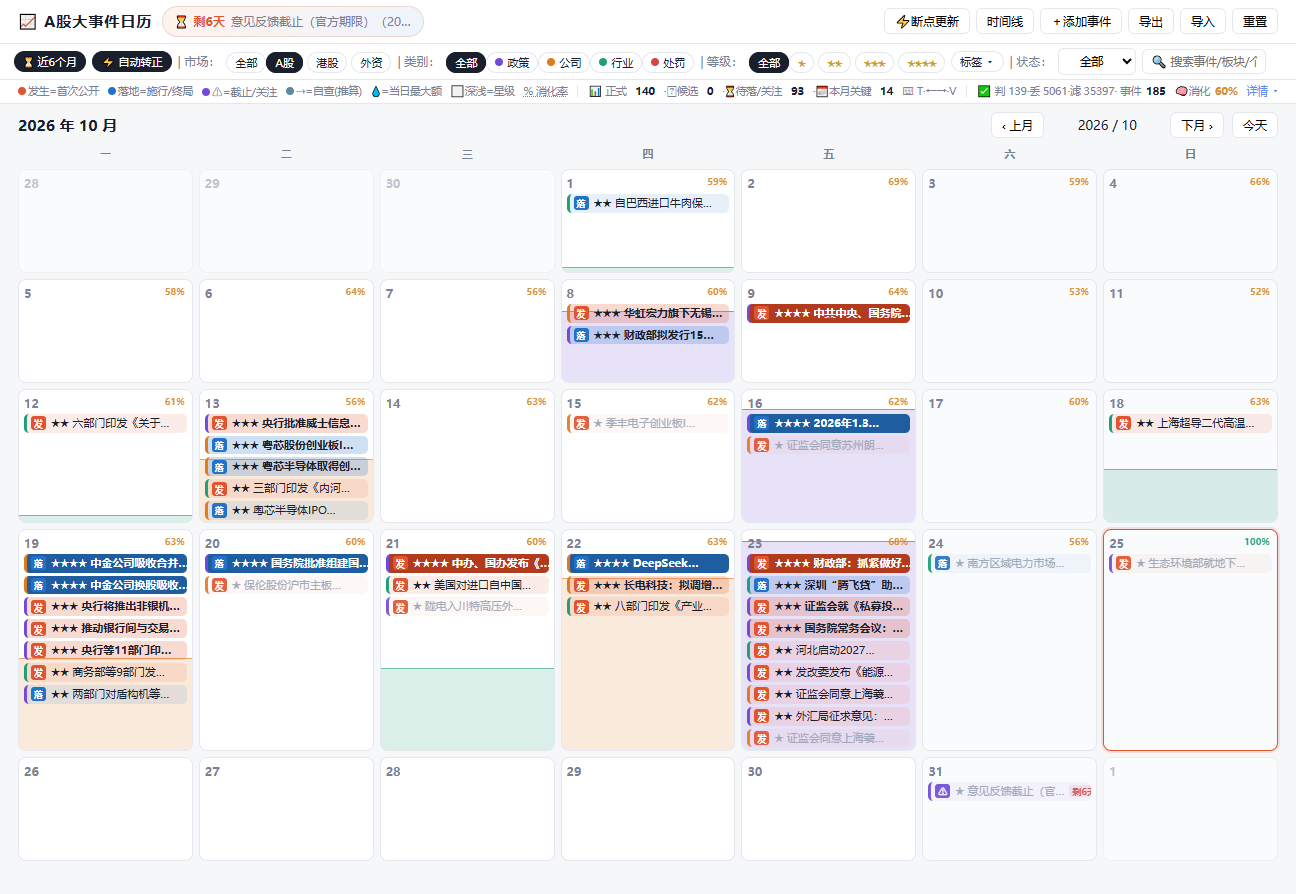
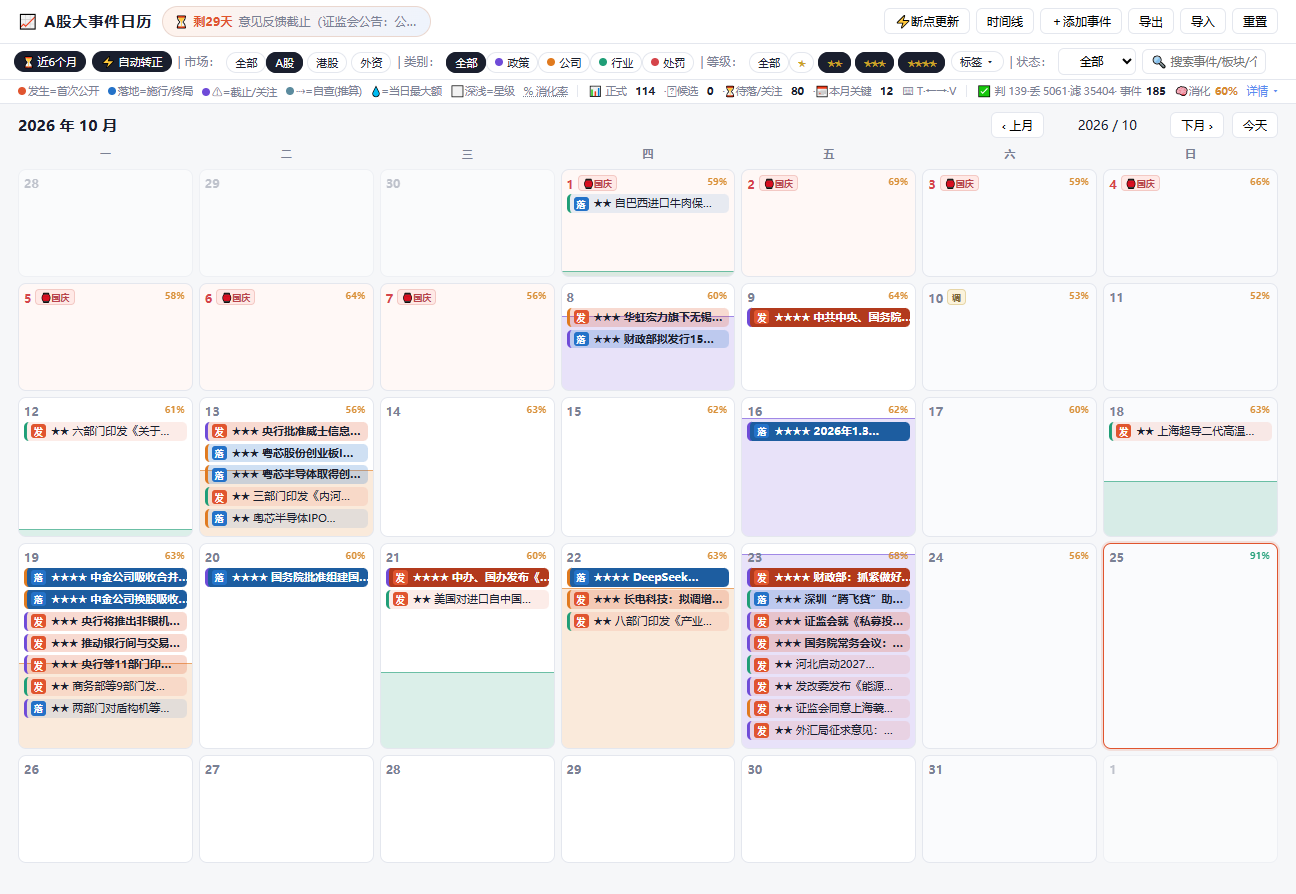
docs: 主图换带假日层十月视图 + 软文补节假日钩子 + 第十九章记录

diff --git a/大事件日历-优化计划.md b/大事件日历-优化计划.md
@@ -298,3 +298,12 @@ fitRows 底部留白常数 14px→34px（实测差 22px 导致残余滚动），
 - 修复：global+local user.name 改"徐金杰"→ filter-branch 重写历史（仅改 author/committer 名，邮箱不变）→ GitHub force push → Gitee 强制同步（覆盖，8b13686 起全绿）
 - 双平台终验：仓库页 html 检索 pc-l.cn = 0 命中 ✓；本地 refs/original 已清
 - jsDelivr@master/Pages 不受影响（文件内容 hash 未变）
+
+## 十九、法定假日/休市层 + 搜索词扩容（2026-10-25）
+- 起因：用户提议"日历里加放假安排"——正好是 Roadmap 固定日程层的第一块砖，且"放假安排/股市休市"是周期性高流量搜索词（节前必有一波）
+- 数据源（逐字官方，宁缺毋滥）：国办《关于2026年部分节假日安排的通知》（国办发明电〔2025〕7号，gov.cn）+ 上交所 2026 年度休市安排（上证公告〔2025〕45号）+ 深交所（深证会〔2025〕481号）；休市日 = 放假日完全一致，调休上班的周六日为"周末休市"（A股不交易）
+- 实现（6b41dcc）：大事件日历.html 新增 HOLIDAYS 常量（2026 全量 7 节）+ HOLMAP 预计算；格渲染挂载 🏮节名胶囊（放假日，暖红底）/"调"胶囊（调休上班日，黄底）+ hover 提示完整区间与来源文号；启用早年预留的 `.cell.festival` 钩子
+- 验证：十月视图 7×🏮国庆+调 ✓、春节 9 天连续胶囊 ✓、劳动节 ✓，三个月份 grid 溢出均 0px，fitRows 稳定
+- 搜索扩容联动：GitHub Description 追加"含2026法定假日/股市休市标注"；topics 换入 chinese-calendar/holidays（换出 chinese/investing，维持 20 上限）；README 特性+找词表加"股市休市/放假安排 2026"；Pages index.html keywords/og 补假日词；Gitee 介绍同步补词（浏览器会话，save 实测持久化 ✓）
+- 软文发布包补节假日钩子段（吸节前流量）
+- 待办：Gitee「强制同步」拉取最新代码——弹窗需帐号+个人令牌（浏览器密码管理器未存），待用户提供或用户自行点击
